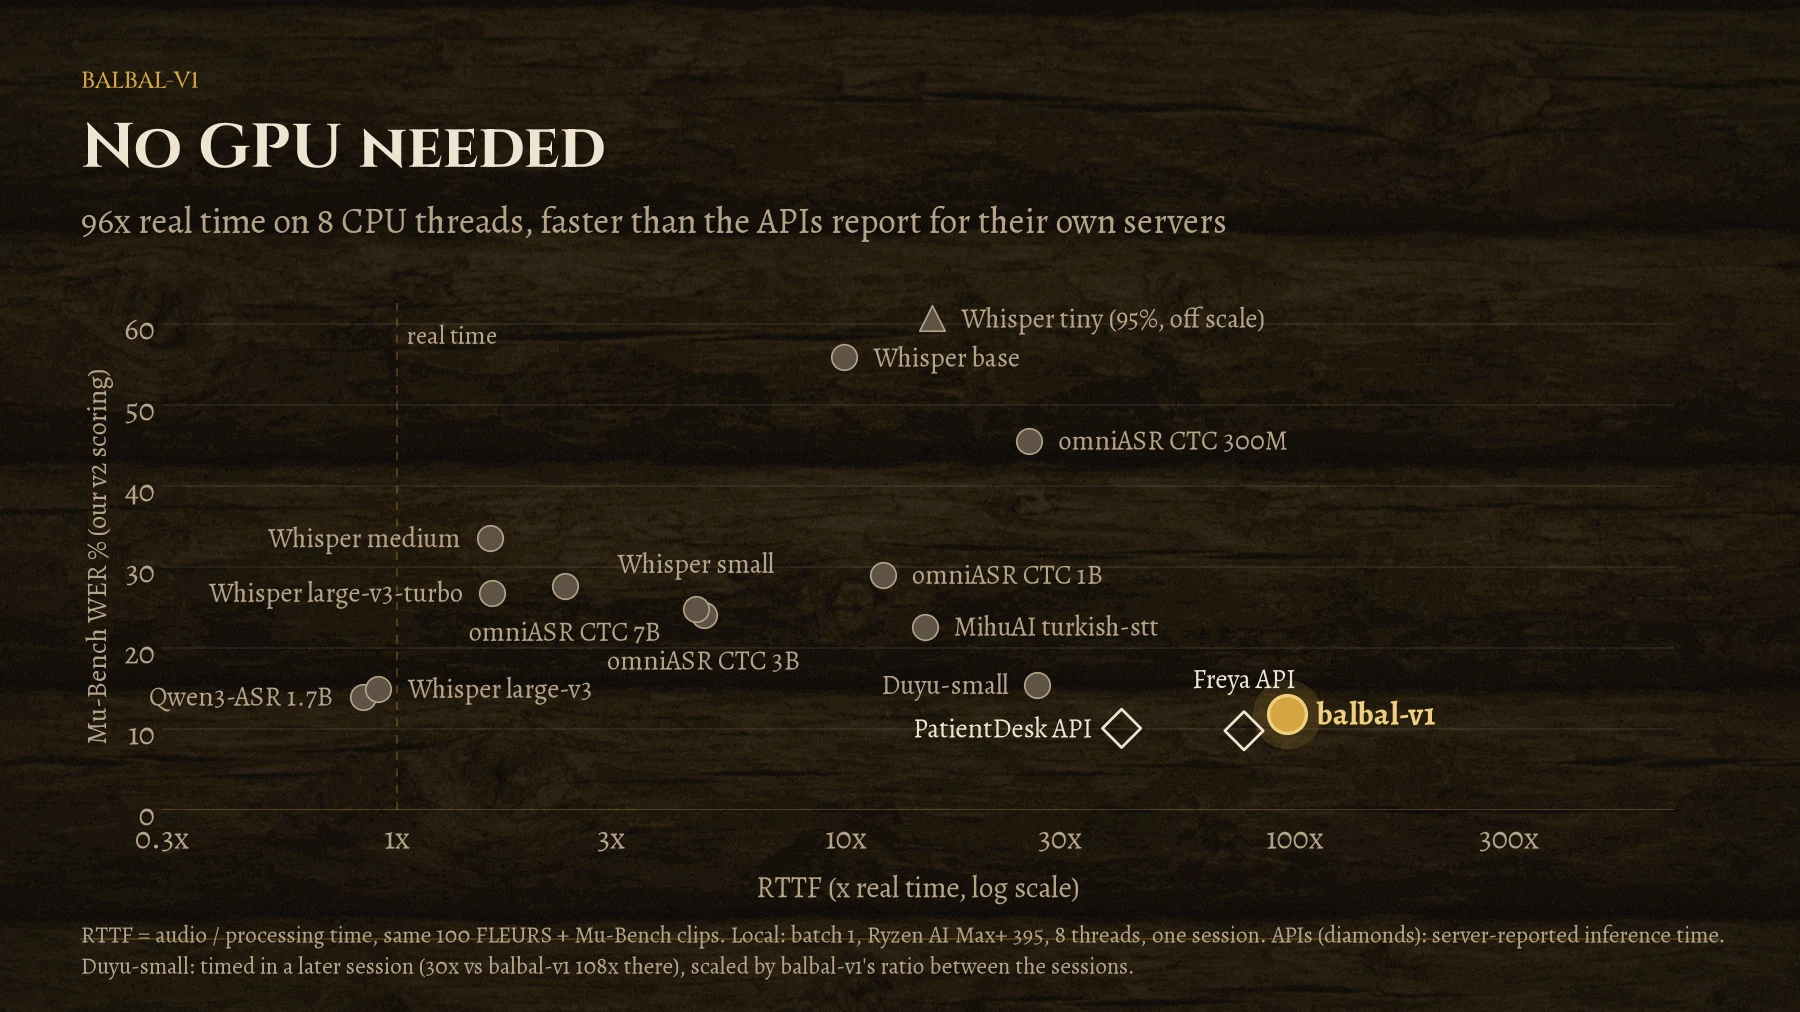
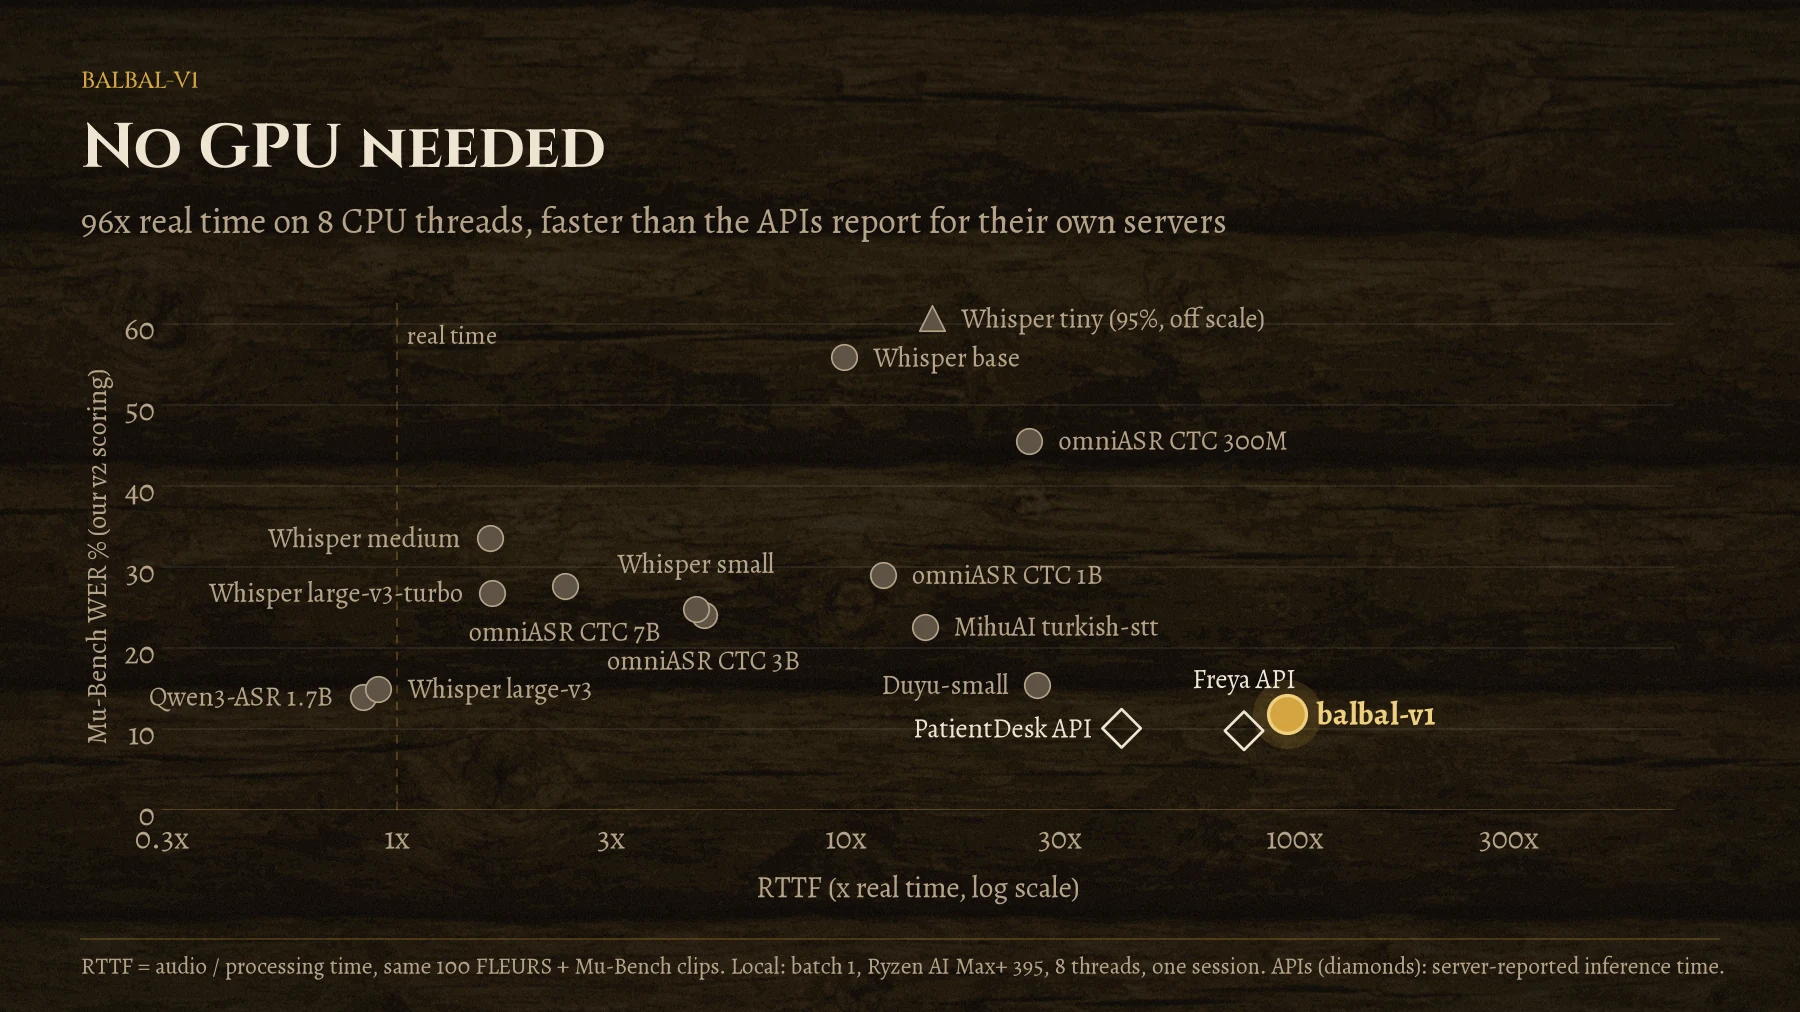
balbal: Duyu-small speed note moved from chart to caption

Changed region(s): [[0.0311, 0.919, 0.9644, 0.9802]]

diff --git a/balbal-blog/index.html b/balbal-blog/index.html
@@ -244,7 +244,7 @@ document.addEventListener('click', e => {
 
   <figure>
     <img src="/balbal/img/5-rttf-cpu.webp" alt="Mu-Bench hata oranı ile işlemcide hız (gerçek zaman katı, logaritmik) grafiği; balbal-v1 sağ altta, hem hızlı hem doğru. Freya ve PatientDesk API'leri de grafikte." width="1800" height="1012">
-    <figcaption><b>Hız ve doğruluk.</b> Yerel modeller aynı oturumda, 8 işlemci çekirdeğinde ve batch 1 ile ölçüldü. Freya ve PatientDesk (elmaslar) kendi sunucularının bildirdiği işlem süresiyle. Yatay eksen logaritmik; sağ alt köşe en iyisi. omniASR'ın LLM'li modelleri işlemcide bitmek bilmeyeceği için grafikte yok.</figcaption>
+    <figcaption><b>Hız ve doğruluk.</b> Yerel modeller aynı oturumda, 8 işlemci çekirdeğinde ve batch 1 ile ölçüldü. Freya ve PatientDesk (elmaslar) kendi sunucularının bildirdiği işlem süresiyle. Yatay eksen logaritmik; sağ alt köşe en iyisi. omniASR'ın LLM'li modelleri işlemcide bitmek bilmeyeceği için grafikte yok. Duyu-small ayrı bir oturumda 30× ölçüldü (aynı oturumda balbal-v1 108×); grafikte balbal-v1'in iki oturum arasındaki oranıyla ölçeklenmiş hali (27×) var.</figcaption>
   </figure>
 
   <h2 id="mimari"><span class="n">2</span>Mimari</h2>
@@ -612,7 +612,7 @@ document.addEventListener('click', e => {
 
   <figure>
     <img src="/balbal/img/5-rttf-cpu.webp" alt="Mu-Bench error rate versus CPU speed (multiple of real time, log scale); balbal-v1 sits bottom right, both fast and accurate. The Freya and PatientDesk APIs are also on the chart." width="1800" height="1012">
-    <figcaption><b>Speed and accuracy.</b> Local models were measured in the same session on 8 CPU cores with batch 1. Freya and PatientDesk (diamonds) use the processing time reported by their own servers. The horizontal axis is logarithmic; bottom right is best. omniASR's LLM models are not on the chart: on a CPU they would take forever.</figcaption>
+    <figcaption><b>Speed and accuracy.</b> Local models were measured in the same session on 8 CPU cores with batch 1. Freya and PatientDesk (diamonds) use the processing time reported by their own servers. The horizontal axis is logarithmic; bottom right is best. omniASR's LLM models are not on the chart: on a CPU they would take forever. Duyu-small was timed in a separate session at 30× (balbal-v1 ran at 108× there); the chart shows it scaled by balbal-v1's ratio between the two sessions (27×).</figcaption>
   </figure>
 
   <h2 id="architecture"><span class="n">2</span>Architecture</h2>

diff --git a/balbal/index.html b/balbal/index.html
@@ -253,7 +253,7 @@ document.addEventListener('click', e => {
     <h2 id="hd-baslik">Hem hızlı hem doğru</h2>
     <p class="sub">Mu-Bench hatası ve hız. Sağ alt köşe en iyisi.</p>
     <figure class="plot"><img src="/balbal/img/5-rttf-cpu.webp" alt="Mu-Bench hata oranı ile işlemcide hız (gerçek zaman katı, logaritmik) grafiği. balbal-v1 sağ altta: hem en hızlılardan hem en az hata yapanlardan; Freya ve PatientDesk API'leri de grafikte." width="1800" height="1012"></figure>
-    <p class="note">Yerel modeller aynı işlemcide, 8 çekirdek ve batch 1 ile ölçüldü. Freya ve PatientDesk (elmaslar) kendi sunucularının bildirdiği işlem süresiyle. omniASR'ın LLM'li modelleri işlemcide bitmek bilmeyeceği için grafikte yok.</p>
+    <p class="note">Yerel modeller aynı işlemcide, 8 çekirdek ve batch 1 ile ölçüldü. Freya ve PatientDesk (elmaslar) kendi sunucularının bildirdiği işlem süresiyle. omniASR'ın LLM'li modelleri işlemcide bitmek bilmeyeceği için grafikte yok. Duyu-small ayrı bir oturumda 30× ölçüldü (aynı oturumda balbal-v1 108×); grafikte balbal-v1'in iki oturum arasındaki oranıyla ölçeklenmiş hali (27×) var.</p>
   </section>
 
   <section class="block" id="apiler" aria-labelledby="apiler-baslik">
@@ -389,7 +389,7 @@ document.addEventListener('click', e => {
     <h2 id="sa-title">Fast and accurate</h2>
     <p class="sub">Mu-Bench error versus speed. Bottom right is best.</p>
     <figure class="plot"><img src="/balbal/img/5-rttf-cpu.webp" alt="Mu-Bench error rate versus CPU speed (multiple of real time, log scale). balbal-v1 sits bottom right: among the fastest and among the most accurate; the Freya and PatientDesk APIs are also on the chart." width="1800" height="1012"></figure>
-    <p class="note">Local models were measured on the same CPU with 8 cores and batch 1. Freya and PatientDesk (diamonds) use the processing time reported by their own servers. omniASR's LLM models are not on the chart: on a CPU they would take forever.</p>
+    <p class="note">Local models were measured on the same CPU with 8 cores and batch 1. Freya and PatientDesk (diamonds) use the processing time reported by their own servers. omniASR's LLM models are not on the chart: on a CPU they would take forever. Duyu-small was timed in a separate session at 30× (balbal-v1 ran at 108× there); the chart shows it scaled by balbal-v1's ratio between the two sessions (27×).</p>
   </section>
 
   <section class="block" id="apis" aria-labelledby="apis-title">
